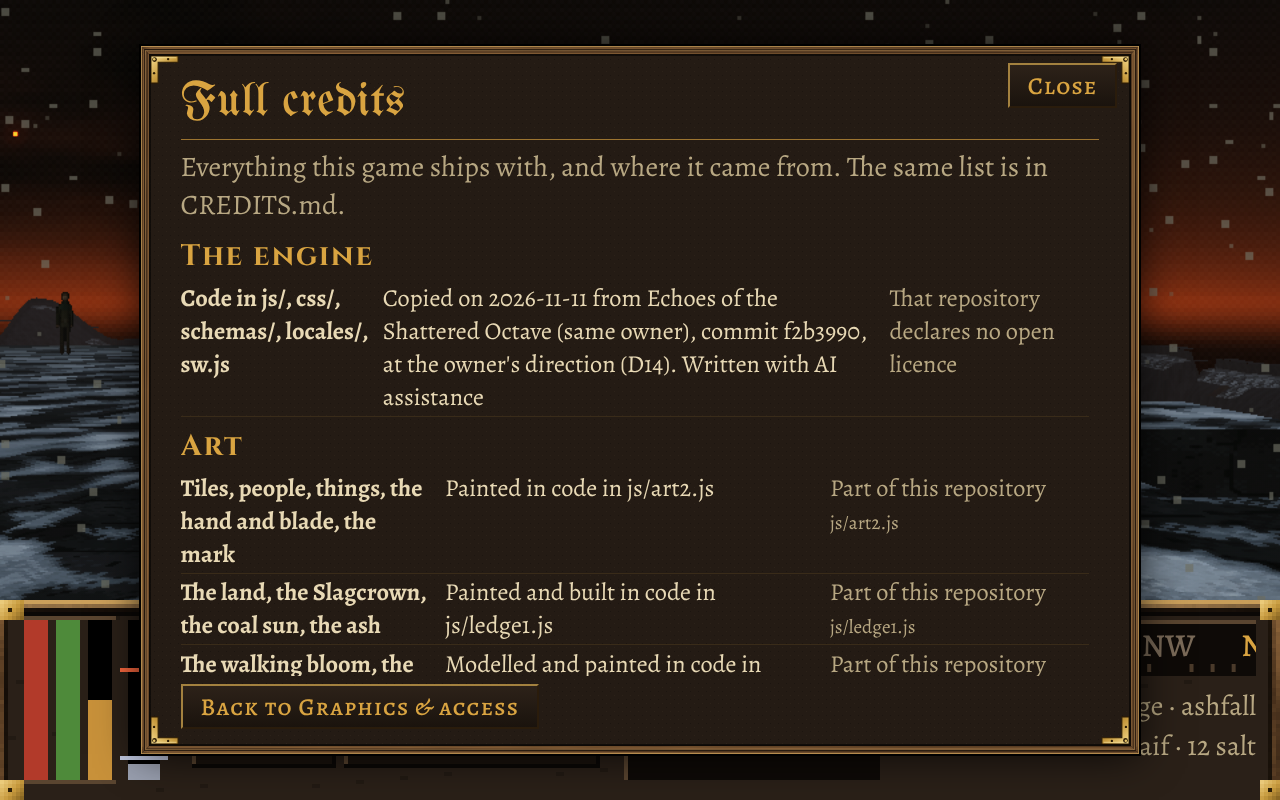
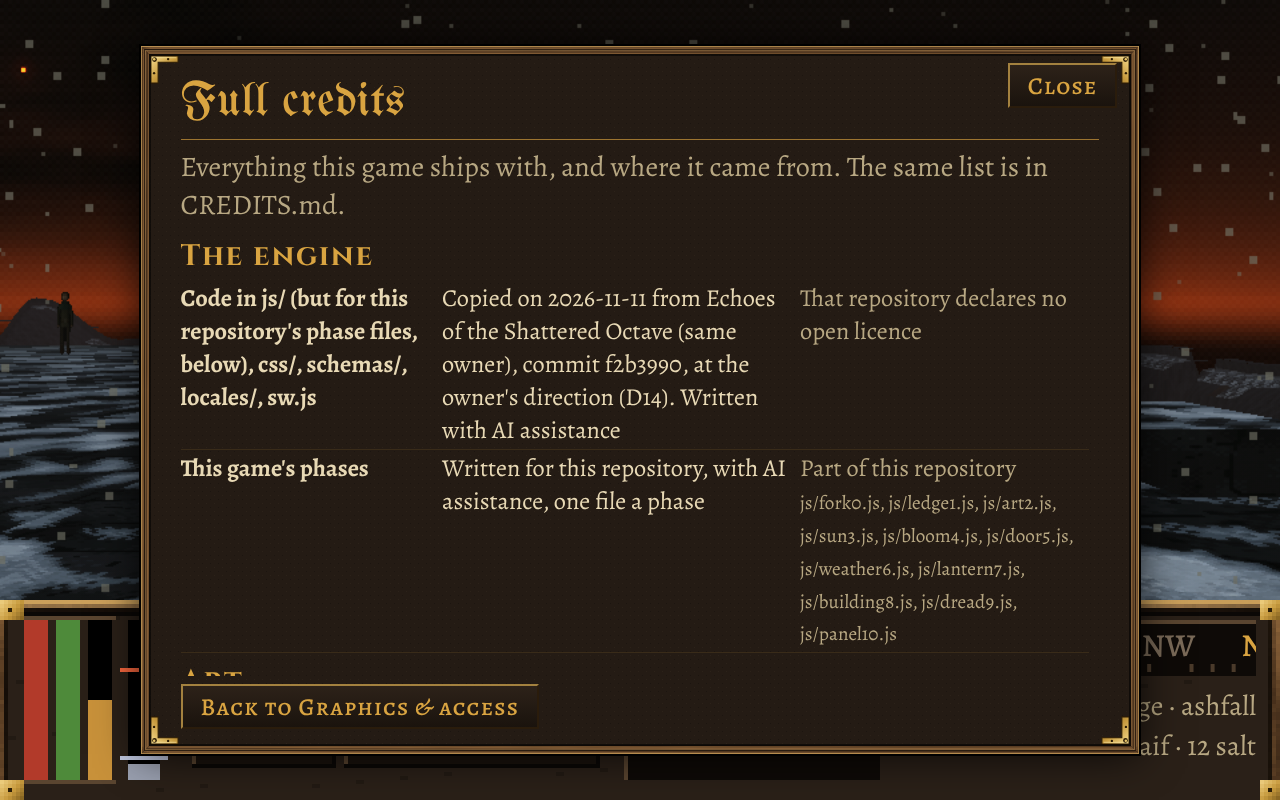
panel10: keys close their panels again; credits attribute only the engine's code
Codex on #60. The panels now open under the engine's own names (char, inv,
log, ledger, help), so a second press of C, I, L, K or H closes them as the
engine always did; Tab closes the pack it opens (the engine's listener runs
first, so only a pack opened before this press is closed). The credits' engine
row no longer claims all of js/: this repository's phase files have their own
row, checked against CLAUDE.md's list. CREDITS.md named only three of them and
is fixed too.

Claude-Session: https://claude.ai/code/session_01UK584L7CWCPkfn4jjrq1ym

diff --git a/js/panel10.js b/js/panel10.js
@@ -123,9 +123,12 @@ const PANEL10 = (() => {
 
   // ---------------------------------------------------------------- the credits: this repository's (CREDITS.md)
   const OFL = 'SIL Open Font License 1.1 (text in fonts/)';
+  // this repository's own code: a phase is one file js/<feature><phase>.js (CLAUDE.md)
+  const PHASE_FILES = ['js/fork0.js', 'js/ledge1.js', 'js/art2.js', 'js/sun3.js', 'js/bloom4.js', 'js/door5.js', 'js/weather6.js', 'js/lantern7.js', 'js/building8.js', 'js/dread9.js', 'js/panel10.js'];
   const CREDITS = [
     { title: 'The engine', rows: [
-      ['Code in js/, css/, schemas/, locales/, sw.js', 'Copied on 2026-11-11 from Echoes of the Shattered Octave (same owner), commit f2b3990, at the owner\'s direction (D14). Written with AI assistance', 'That repository declares no open licence', []],
+      ['Code in js/ (but for this repository\'s phase files, below), css/, schemas/, locales/, sw.js', 'Copied on 2026-11-11 from Echoes of the Shattered Octave (same owner), commit f2b3990, at the owner\'s direction (D14). Written with AI assistance', 'That repository declares no open licence', []],
+      ['This game\'s phases', 'Written for this repository, with AI assistance, one file a phase', 'Part of this repository', PHASE_FILES],
     ] },
     { title: 'Art', rows: [
       ['Tiles, people, things, the hand and blade, the mark', 'Painted in code in js/art2.js', 'Part of this repository', ['js/art2.js']],
@@ -166,7 +169,7 @@ const PANEL10 = (() => {
   }
 
   // ---------------------------------------------------------------- in the game
-  const ST = { hud: [], bar: null, baseHp: null, err: null };
+  const ST = { hud: [], bar: null, baseHp: null, err: null, packT: -1 };
   const OIL = '#c8913a', VOICE_BLUE = '#3d6aa8';
   const here = () => typeof G !== 'undefined' && G && G.map && G.map._la;
   const esc = (s) => String(s).replace(/[&<>"]/g, (c) => ({ '&': '&amp;', '<': '&lt;', '>': '&gt;', '"': '&quot;' }[c]));
@@ -193,10 +196,11 @@ const PANEL10 = (() => {
     const b = current(), p = G.player;
     openModal(`<h2>${esc(p.name)}</h2>${closeBtn}<p><b style="color:var(--gold)">${esc(b.name)}</b></p><p>${esc(cap(b.life))}</p>
       <p><b>${TX.whoKnack}:</b> ${esc(b.knack.name)} (${esc(b.knack.what)}).<br><b>${TX.whoFlaw}:</b> ${esc(b.flaw.name)} (${esc(b.flaw.what)}).</p>
-      <p>${TX.youHealth} ${Math.round(p.hp)} / ${p.hpMax}</p><p class="muted">${esc(TX.youSent)}</p>`, 'la-you');
+      <p>${TX.youHealth} ${Math.round(p.hp)} / ${p.hpMax}</p><p class="muted">${esc(TX.youSent)}</p>`, 'char');
     wireClose();
   }
   function renderPack() {
+    ST.packT = typeof performance !== 'undefined' ? performance.now() : 0;
     const p = G.player, name = (id) => (typeof ITEMS !== 'undefined' && ITEMS[id] && ITEMS[id].name) || (typeof WEAPONS !== 'undefined' && WEAPONS[id] && WEAPONS[id].name) || id;
     const hands = (p.weapons || []).filter(Boolean).map((id) => esc(name(id)));
     const worn = Object.values(p.armor || {}).filter(Boolean).map((id) => esc(name(id)));
@@ -205,23 +209,23 @@ const PANEL10 = (() => {
     let lamp = TX.lampNone; try { lamp = TX.lamp(LANTERN7.words(LANTERN7.oil())); } catch (e) { /* no lantern */ }
     openModal(`<h2>${TX.packTitle}</h2>${closeBtn}
       <p><b>${TX.packHands}:</b> ${hands.join(', ') || '-'}</p><p><b>${TX.packWorn}:</b> ${worn.join(', ') || '-'}</p>
-      <p><b>${TX.packBag}:</b> ${bag.join(', ') || '-'}</p><p>${esc(lamp)}</p><p>${esc(TX.salt(p.gold | 0))}</p>`, 'la-pack');
+      <p><b>${TX.packBag}:</b> ${bag.join(', ') || '-'}</p><p>${esc(lamp)}</p><p>${esc(TX.salt(p.gold | 0))}</p>`, 'inv');
     wireClose();
   }
   function renderBook() {
     const day = Math.max(0, G.day | 0), part = typeof timeName === 'function' ? timeName() : '';
     const rows = (G.journal || []).filter((j) => j && j.text).map((j) => `<p>${esc(j.text)}</p>`).join('') || `<p class="muted">${TX.bookNone}</p>`;
-    openModal(`<h2>${TX.bookTitle}</h2>${closeBtn}<p class="muted">${esc(TX.bookDate(day, part))}</p>${rows}`, 'la-book');
+    openModal(`<h2>${TX.bookTitle}</h2>${closeBtn}<p class="muted">${esc(TX.bookDate(day, part))}</p>${rows}`, 'log');
     wireClose();
   }
   function renderFolk() {
     const T = (L1 && L1.TOPICS) || {}, line = (n) => (T[n] && T[n].low) || '';
     openModal(`<h2>${TX.folkTitle}</h2>${closeBtn}
-      <p><b>Marget Sayle.</b> ${esc(line('Marget Sayle'))}</p><p><b>Gytha Marrin.</b> ${esc(line('Gytha Marrin'))}</p><p>${esc(TX.carter)}</p>`, 'la-folk');
+      <p><b>Marget Sayle.</b> ${esc(line('Marget Sayle'))}</p><p><b>Gytha Marrin.</b> ${esc(line('Gytha Marrin'))}</p><p>${esc(TX.carter)}</p>`, 'ledger');
     wireClose();
   }
   function renderHelp10() {
-    openModal(`<h2>${TX.helpTitle}</h2>${closeBtn}<table>${TX.help.map(([a, b]) => `<tr><td class="n"><b>${esc(a)}</b></td><td>${esc(b)}</td></tr>`).join('')}</table>`, 'la-help');
+    openModal(`<h2>${TX.helpTitle}</h2>${closeBtn}<table>${TX.help.map(([a, b]) => `<tr><td class="n"><b>${esc(a)}</b></td><td>${esc(b)}</td></tr>`).join('')}</table>`, 'help');
     wireClose();
   }
   const lamp = () => { try { LANTERN7.toggle(); } catch (e) { /* no lantern */ } };
@@ -260,6 +264,15 @@ const PANEL10 = (() => {
         if ((ev.key || '').toLowerCase() === 'n') { ev.stopImmediatePropagation(); lamp(); }
       } catch (e) { /* a key press must never throw */ }
     }, true);
+    // the panels keep the engine's own names (char, inv, log, ledger, help), so a second press of C, I, L, K or H closes
+    // them as it always did; Tab, which the engine closes only on its song-book, closes the pack it now opens
+    window.addEventListener('keydown', (ev) => {
+      try {
+        if (ev.repeat || !here() || G.state !== 'panel' || G.openPanel !== 'inv' || (ev.key || '').toLowerCase() !== 'tab') return;
+        if (!(ST.packT < ev.timeStamp)) return;   // the engine's own listener runs first: this press is the one that opened it
+        ev.preventDefault(); ev.stopImmediatePropagation(); closeModal(); G.state = 'play';
+      } catch (e) { /* a key press must never throw */ }
+    }, true);
     // soft feet
     swap('armorNoise', function () { const n = ORIG.armorNoise.apply(this, arguments); const b = current(); return b && b.step ? Math.max(-0.8, n + b.step) : n; });
     // the HUD: its words, and its third bar as the lantern's oil
@@ -286,6 +299,6 @@ const PANEL10 = (() => {
   }
   const ORIG = { armorNoise: typeof armorNoise === 'function' ? armorNoise : null, openModal: typeof openModal === 'function' ? openModal : null };
   const wired = typeof window !== 'undefined' ? wire() : false;
-  return { BACKGROUNDS, DEFAULT, byId, BUTTONS, TX, CREDITS, hudText, texts, choose, renderWho, state: () => ST, current, ORIG, wrapHUD, wired };
+  return { PHASE_FILES, BACKGROUNDS, DEFAULT, byId, BUTTONS, TX, CREDITS, hudText, texts, choose, renderWho, state: () => ST, current, ORIG, wrapHUD, wired };
 })();
 if (typeof module !== 'undefined' && module.exports) module.exports = PANEL10;

diff --git a/test/panel10.test.js b/test/panel10.test.js
@@ -48,6 +48,10 @@ const T = P10.texts();
 const OCTAVE = /Quarry|\bHz\b|sovereign|\bsov\b|Oakhaven|Synod|Carillon|\bHush\b|Cacophony|\bsongs?\b|\bSR\b|\bVoice\b|\blevel\b|\bLv\b|Legionnaire|pickpocket|disguise|Aethelgard|Murmur/i;
 check(T.length > 30 && !T.some((s) => OCTAVE.test(s)), 'nothing this phase writes uses the Octave\'s words (' + T.length + ' lines checked)' + (T.find((s) => OCTAVE.test(s)) ? ': ' + T.find((s) => OCTAVE.test(s)) : ''));
 check(T.every((s) => !/[^\x09\x0a\x0d\x20-\x7e]/.test(s.replace(/·/g, ''))), 'and all of it is plain ASCII (the HUD\'s middle dot aside, which the engine already draws)');
+{ const fs = require('fs'), pth = require('path'), md = fs.readFileSync(pth.join(__dirname, '..', 'CLAUDE.md'), 'utf8');
+  const named = [...md.matchAll(/(js\/[a-z]+\d+\.js) +Phase \d+/g)].map((m) => m[1]).sort();
+  check(named.length >= 11 && named.join(' ') === P10.PHASE_FILES.slice().sort().join(' ') && P10.PHASE_FILES.every((f) => fs.existsSync(pth.join(__dirname, '..', f))) && /but for this repository/.test(P10.CREDITS[0].rows[0][0]),
+    'the credits name every phase file CLAUDE.md lists as this repository\'s own, not the engine\'s: ' + P10.PHASE_FILES.join(' ')); }
 check(P10.CREDITS.every((s) => s.rows.every((r) => !/Kokoro|Canva|DreamShaper|music\/|voices\/|39 images|js\/assets\.js\. Origin/.test(r.join(' ')))) && P10.CREDITS.some((s) => s.rows.some((r) => /js\/art2\.js/.test(r.join(' ')))), 'the in-game credits are this repository\'s, as CREDITS.md has them: no Octave music, voices or paintings');
 check(!/Math\.random/.test(src), 'nothing in it uses a random number');
 
@@ -76,7 +80,13 @@ check(!/Math\.random/.test(src), 'nothing in it uses a random number');
         out.panels = {};
         for (const b of HUD_BTNS) if (!['LAMP', 'WEAPON', 'SAVE', 'MAP', 'REST'].includes(b.t)) { G.state = 'play'; b.f(); out.panels[b.t] = document.querySelector('#modal-panel').innerText; closeModal(); G.state = 'play'; }
         out.keys = {};
-        for (const k of ['c', 'i', 'l', 'k', 'h', 'tab']) { G.state = 'play'; window.dispatchEvent(new KeyboardEvent('keydown', { key: k === 'tab' ? 'Tab' : k })); out.keys[k] = G.openPanel; window.dispatchEvent(new KeyboardEvent('keyup', { key: k === 'tab' ? 'Tab' : k })); closeModal(); G.state = 'play'; }
+        out.shut = {};
+        const press = (k) => { const key = k === 'tab' ? 'Tab' : k; window.dispatchEvent(new KeyboardEvent('keydown', { key })); window.dispatchEvent(new KeyboardEvent('keyup', { key })); };
+        for (const k of ['c', 'i', 'l', 'k', 'h', 'tab']) {
+          G.state = 'play'; press(k); out.keys[k] = G.openPanel;
+          press(k); out.shut[k] = G.state === 'play' && !G.openPanel;   // the same key again closes it, as in the engine
+          if (G.state !== 'play') { closeModal(); G.state = 'play'; }
+        }
         // N, once the Murmur, and the LAMP button light the lantern; F1 sings nothing
         G.flags.la_oil = 600; UPG.lantern = false; LANTERN7.state().prev = false;
         window.dispatchEvent(new KeyboardEvent('keydown', { key: 'n' })); window.dispatchEvent(new KeyboardEvent('keyup', { key: 'n' })); out.lampN = UPG.lantern;
@@ -102,7 +112,8 @@ check(!/Math\.random/.test(src), 'nothing in it uses a random number');
     check(/S\.30/.test(r.panels.BOOK) && /Gytha Marrin sent us north/.test(r.panels.BOOK), 'BOOK is dated by this game\'s year and holds the errand');
     check(/Marget Sayle/.test(r.panels.FOLK) && /Gytha Marrin/.test(r.panels.FOLK) && /carter/i.test(r.panels.FOLK), 'FOLK is who you know here: Marget Sayle, Gytha Marrin, the carter');
     check(/\bU\b/.test(r.panels.HELP) && /bar/i.test(r.panels.HELP) && /Shift/.test(r.panels.HELP), 'HELP is this game\'s: the lantern on U, the bar on the door, Shift runs and is loud');
-    check(r.keys.c === 'la-you' && r.keys.i === 'la-pack' && r.keys.l === 'la-book' && r.keys.k === 'la-folk' && r.keys.h === 'la-help' && r.keys.tab === 'la-pack', 'and the keys open them: C, I, L, K, H, and Tab (once the song-book) the pack');
+    check(r.keys.c === 'char' && r.keys.i === 'inv' && r.keys.l === 'log' && r.keys.k === 'ledger' && r.keys.h === 'help' && r.keys.tab === 'inv', 'and the keys open them, under the engine\'s own panel names: C, I, L, K, H, and Tab (once the song-book) the pack ' + JSON.stringify(r.keys));
+    check(Object.keys(r.shut).length === 6 && Object.values(r.shut).every(Boolean), 'and the same key again closes each, as it always did (' + JSON.stringify(r.shut) + ')');
     check(r.lampN === true && r.lampBtn === false, 'N (once the Murmur) lights the lantern, and LAMP douses it');
     check(r.f1.voice[0] === r.f1.voice[1] && !r.f1.murmur, 'F1 sings nothing: the Octave\'s songs are not this game\'s');
     check(r.hud.length > 3 && !r.hud.some((t) => /sov\.|\bLv\b|fragments/.test(t)) && r.hud.some((t) => /The waif · \d+ salt|The waif · no salt/.test(t)), 'the HUD draws "' + (r.hud.find((t) => /The waif/.test(t)) || '') + '", not levels and sovereigns');

diff --git a/sw.js b/sw.js
@@ -18,7 +18,7 @@
 //
 // <precache:begin>
 // Generated by tools/pwa/precache.js from index.html and the asset folders. Do not edit by hand; run the tool.
-const BUILD = "4ab5a929c503";
+const BUILD = "8b0b7165cdab";
 const MEDIA_BUILD = "e3b0c44298fc";
 const MEDIA_BYTES = 0;
 const CORE = [
@@ -103,7 +103,7 @@ const CORE = [
   "js/painted-manifest.js?v=3",
   "js/painted.js?v=1",
   "js/paintfolk76.js?v=3",
-  "js/panel10.js?v=1",
+  "js/panel10.js?v=2",
   "js/partner19.js?v=3",
   "js/party.js?v=33",
   "js/pathing.js?v=31",

diff --git a/index.html b/index.html
@@ -178,6 +178,6 @@
 <script src="js/lantern7.js?v=1"></script>
 <script src="js/building8.js?v=1"></script>
 <script src="js/dread9.js?v=2"></script>
-<script src="js/panel10.js?v=1"></script>
+<script src="js/panel10.js?v=2"></script>
 </body>
 </html>

diff --git a/ROADMAP.md b/ROADMAP.md
@@ -671,7 +671,11 @@ What it does:
     button light and douse the lantern. The Octave's songs sing nothing here.
 - **The HUD.** Its line reads "The waif · 12 salt": salt, not levels and sovereigns (P85). The song lines are not
   drawn. The third bar, once the Octave's Voice, is the lantern's oil, in tallow.
-- **The credits** are this repository's, as `CREDITS.md` has them, and so is their first line.
+- **The credits** are this repository's, as `CREDITS.md` has them, and so is their first line. The engine's row no
+  longer claims all of `js/`: this repository's phase files have a row of their own. `CREDITS.md` had the same fault (it
+  named only fork0, art2 and ledge1 as this repository's) and is fixed.
+- **The panels keep the engine's names** (char, inv, log, ledger, help), so pressing C, I, L, K or H again closes them
+  as before; Tab closes the pack it opens.
 - No engine file was edited. It is not a picture effect, so there is no switch: off would only bring the Octave's
   words back.
 - **An earlier phase's test changed.** `test/lantern7.test.js` compares its switched-off frame with the frame drawn with

diff --git a/CREDITS.md b/CREDITS.md
@@ -5,7 +5,9 @@ source or a licence, this file says **unverified** and does not guess.
 
 ## The engine
 
-The code in `js/` other than `js/fork0.js`, `js/art2.js` and `js/ledge1.js`, and `css/`, `schemas/`,
+The code in `js/` other than this repository's phase files (`js/fork0.js`, `js/ledge1.js`, `js/art2.js`,
+`js/sun3.js`, `js/bloom4.js`, `js/door5.js`, `js/weather6.js`, `js/lantern7.js`, `js/building8.js`,
+`js/dread9.js`, `js/panel10.js`: one file a phase, written for this game), and `css/`, `schemas/`,
 `locales/`, `sw.js`, `tools/pwa/precache.js` and the layout of `index.html`, were copied on
 2026-11-11 from *Echoes of the Shattered Octave*
 (`github.com/dribblejerp-KlunkDunker/echoes-of-the-shattered-octave`, branch `phase-75-pixel-folk`,
